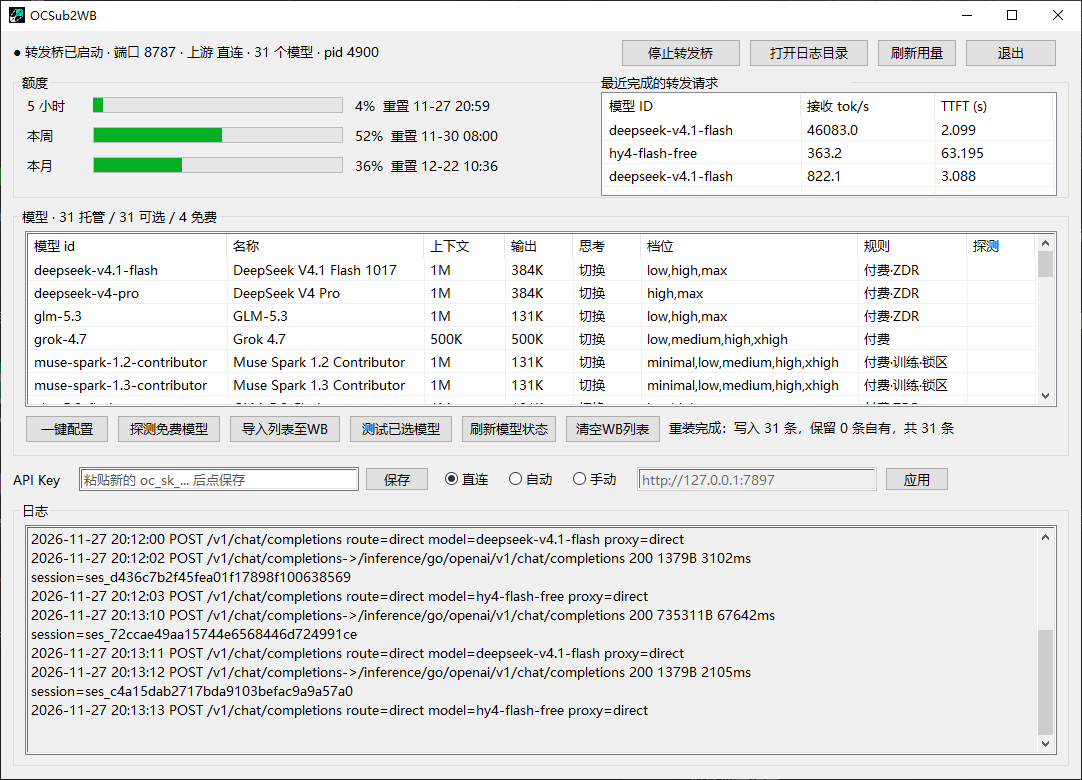
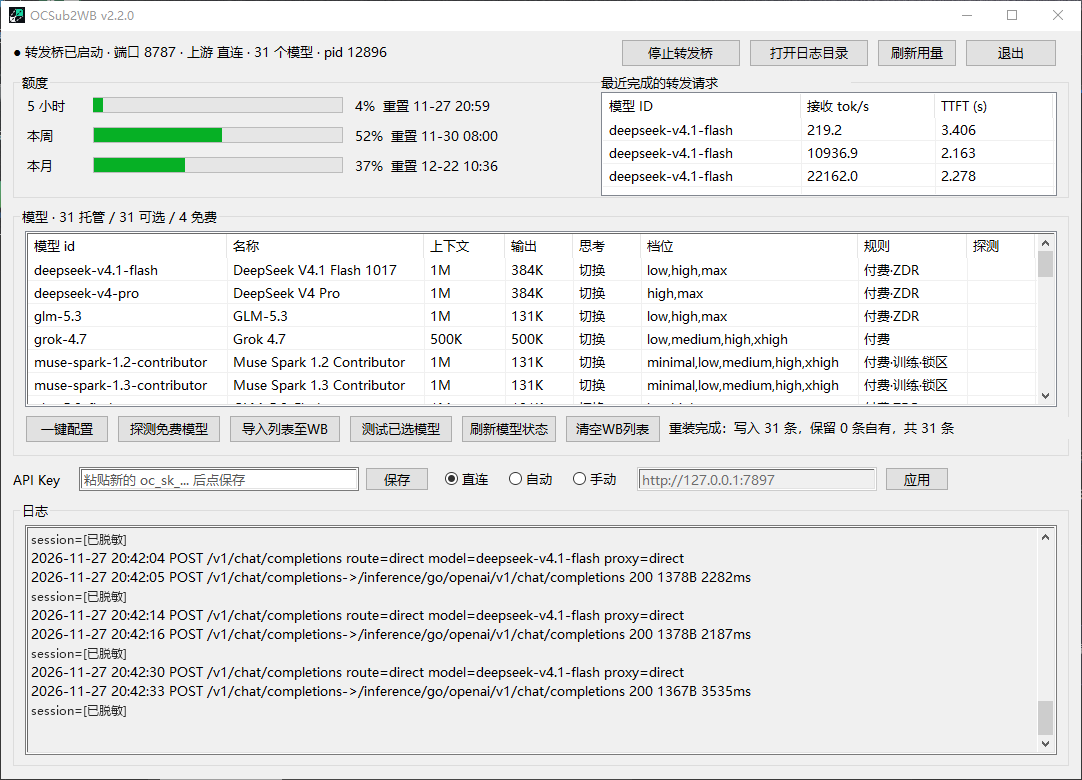
Align v2.2.0 release documentation and redact screenshot session IDs

diff --git a/README.md b/README.md
@@ -2,16 +2,26 @@
   <img src="./assets/icon.png" width="80" height="80" alt="">
   <h1>OCSub2WB</h1>
   <p>在 Windows 上，将 WorkBuddy 的自定义模型接入自己的 OpenCode Go 订阅。</p>
-  <p><a href="https://github.com/869Nitro/OCSub2WB/releases/latest"><strong>下载 Windows x64 便携包</strong></a> · <a href="#快速开始">快速开始</a> · <a href="https://github.com/869Nitro/OCSub2WB/blob/main/docs/usage.md">使用手册</a></p>
+  <p><a href="https://github.com/869Nitro/OCSub2WB/releases/tag/v2.2.0"><strong>下载 Windows x64 便携包</strong></a> · <a href="#快速开始">快速开始</a> · <a href="https://github.com/869Nitro/OCSub2WB/blob/v2.2.0/docs/usage.md">使用手册</a></p>
 </div>
+
+## OCSub2WB 解决了什么问题？
+
+OCSub2WB 是一个 Windows 本机转发桥。WorkBuddy 把自定义模型请求发到本机，OCSub2WB 再把请求发给 OpenCode Go。配置完成后，你可以继续在 WorkBuddy 里选模型、发消息和使用工具。
+
+OpenCode Go 的对话请求需要携带它能识别的稳定会话标识，供上游优化会话路由和复用提示词缓存。OCSub2WB 优先沿用请求里的 `x-opencode-session`。默认模式下，缺少这个头时，转发桥会尝试用请求里第一条有文本的用户消息生成标识。推导不到时使用预设值，并把标识作为 `x-opencode-session` 发给 OpenCode Go。 [OpenCode 会话标识说明](https://opencode.ai/docs/console/harnesses#sessions)
+
+面板还能批量导入和更新聊天模型，写入模型 ID、上下文与输出上限、工具调用及思考设置，并保留你自行添加的其他模型。你也可以查看订阅用量、探测免费模型、查看近期转发记录，以及为 OpenCode Go 单独设置上游 HTTP 代理。
 
 ## 快速开始
 
-准备 Windows x64、已安装并登录的 WorkBuddy，以及自己的 OpenCode Go API Key。面板可以使用 WorkBuddy 自带的 Python，项目已用 WorkBuddy 5.11.3 验证转发。[OpenCode Go 订阅与 Key](https://opencode.ai/docs/console/go/#how-it-works)
+准备 Windows x64、已安装并登录的 WorkBuddy，以及自己的 OpenCode Go API Key。面板可以使用 WorkBuddy 自带的 Python。[OpenCode Go 订阅与 Key](https://opencode.ai/docs/console/go/#how-it-works)
+
+**实测范围**　已用 WorkBuddy 5.11.3 和 Go 基础档验证转发。Go Plus 和 Go Teams 与基础档共用推理和用量接口，按公开接口判断可沿用相同的接入方式，这两个套餐尚未实测。使用 Go Teams 时，请填在团队工作区创建的成员个人 API Key。 [OpenCode Go 套餐与用量接口](https://opencode.ai/docs/console/go/#usage)
 
 1. 在 GitHub 发布页的 **Assets** 中下载 `OCSub2WB-v2.2.0-win64.zip`，完整解压到可写目录。[v2.2.0 发布页](https://github.com/869Nitro/OCSub2WB/releases/tag/v2.2.0)
 2. 打开 WorkBuddy，再运行 `OCSub2WB.exe`。让 EXE 和包内的两个 `.py` 文件保持在同一目录。
-3. 需要本机 HTTP 代理时，先设置上游代理并点 **应用**。把 OpenCode Go Key 粘贴到 **API Key** 输入框，点 **保存**，选择 **保存并启动转发桥，刷新模型列表**。只准备配置时可选 **仅保存 API Key**。[上游代理说明](https://github.com/869Nitro/OCSub2WB/blob/main/docs/usage.md#上游代理)
+3. 需要本机 HTTP 代理时，先设置上游代理并点 **应用**。把 OpenCode Go Key 粘贴到 **API Key** 输入框，点 **保存**，选择 **保存并启动转发桥，刷新模型列表**。只准备配置时可选 **仅保存 API Key**。[上游代理说明](https://github.com/869Nitro/OCSub2WB/blob/v2.2.0/docs/usage.md#上游代理)
 4. 点 **一键配置**，在 WorkBuddy 的 **设置 → 模型** 中选择导入的 OpenCode 模型，发一条消息。成功完成的模型请求会出现在面板右上方。
 
 面板为 WorkBuddy 写入的接口地址是 `http://127.0.0.1:8787/v1`。运行时保持转发桥开启。点击右上角 **×** 会收进系统托盘，点击 **退出** 并确认会同时停止转发桥。
@@ -19,27 +29,27 @@
 ## 运行界面
 
 <p align="center">
-  <img src="./assets/panel.png" width="980" alt="OCSub2WB 发布前实机截图，Hy4 Flash 对话期间的转发记录中同时出现 DeepSeek Flash">
+  <img src="./assets/panel.png" width="980" alt="OCSub2WB v2.2.0 实机截图，显示用量、最近完成的转发请求与模型列表">
 </p>
 
-这是 v2.2.0 发布前的实机截图。正式版标题栏会显示 **OCSub2WB v2.2.0**。额度和请求读数来自截图当时。
+这是 **OCSub2WB v2.2.0** 的实机截图。右上角显示最近的转发记录，下方模型列表显示上下文、输出上限和思考设置。日志中的会话标识已打码。
 
 ## 最近完成的转发请求
 
-面板保留最近 **3 条**成功完成的模型转发请求，最新完成的一条在最上方。同一模型多次请求会各占一行。WorkBuddy 的一轮对话可以发起多次模型调用，经过转发桥的后台调用也会出现在表中。
+面板保留最近 **3 条**成功完成的模型转发请求，按完成时间从新到旧排列。同一模型多次请求会各占一行。
 
 | 指标 | 看什么 |
 | --- | --- |
 | `TTFT (s)` | 从转发桥发起上游请求到收到首段非思考输出的秒数。正文和工具调用内容都算输出。 |
 | `接收 tok/s` | 按扣除已知思考 token 的输出用量，估算首段到末段之间的本机接收速率。上游集中发送时，短时间内收到多段输出，读数会偏高。 |
 
-非流式请求会显示模型 ID，两个流式指标显示 `—`。流式响应缺少必要的用量数据、可计数输出不足两个 token 或首末输出在同一次读取中到达时，`接收 tok/s` 显示 `—`。收到首段输出后仍可显示 TTFT。具体计算和空值条件见[指标说明](https://github.com/869Nitro/OCSub2WB/blob/main/docs/usage.md#最近请求指标)。
+非流式请求会显示模型 ID，两个流式指标显示 `—`。流式响应缺少必要的用量数据、可计数输出不足两个 token 或首末输出在同一次读取中到达时，`接收 tok/s` 显示 `—`。收到首段输出后仍可显示 TTFT。
 
-### 为什么用 Hy4 对话时会看到 DeepSeek？
+### 为什么一轮对话会出现多条记录？
 
-这是 **WorkBuddy 5.11.3 的工具结果审查行为**，出现在转发历史中属于正常记录。主对话用 `hy4-flash-free` 时，WorkBuddy 的工具结果审查仍可能从可用模型中另选 `deepseek-v4.1-flash`。如果选中的是已配置的自定义模型，审查请求就会使用该模型的端点，并在经过转发桥时出现在上表。截图中的两种模型 ID 对应不同的转发请求，主对话模型仍按对话中的选择调用。
+WorkBuddy 的「工具内容注入防护」会检查工具返回的内容。启用后，同一轮任务里除了主对话请求，还可能产生工具结果审查请求。OCSub2WB 按经过转发桥的模型请求逐条记录，因此表中的多条记录可能来自同一轮任务。 [WorkBuddy 安全中心说明](https://www.workbuddy.cn/docs/workbuddy/From-Beginner-to-Expert-Guide/Function-Description/Permission-Modes#ai-安全防护)
 
-审查回复通常很短，流式分块集中到达时，**接收 tok/s** 可能显示很高的数值。该数值按本机接收时间估算，只表示这次响应在转发桥上的到达速率。[WorkBuddy 安全中心说明](https://www.workbuddy.cn/docs/workbuddy/From-Beginner-to-Expert-Guide/Function-Description/Permission-Modes#ai-安全防护)
+工具结果审查的回复可能很短。首尾输出分块集中到达时，按这段接收间隔计算的 `接收 tok/s` 会偏高。这里显示的是转发桥收到输出的速率。
 
 ## 接下来怎么用
 
@@ -49,9 +59,27 @@
 | 确认免费模型是否可调用 | 点 **探测免费模型**，再用 **导入列表至WB** 导入付费聊天模型和本次探测通过的免费模型。 |
 | 单独检查一个模型 | 在模型列表选中它，再点 **测试已选模型**。 |
 | 调整窗口大小 | 拖动窗口边缘，或用标题栏的最大化和还原按钮。 |
-| 查找失败原因 | 点 **打开日志目录**，也可以先看[常见问题](https://github.com/869Nitro/OCSub2WB/blob/main/docs/usage.md#常见问题)。 |
+| 查找失败原因 | 点 **打开日志目录**，也可以先看[常见问题](https://github.com/869Nitro/OCSub2WB/blob/v2.2.0/docs/usage.md#常见问题)。 |
 
-升级、上游代理、备份恢复、配置文件和源码构建的详细步骤见[使用手册](https://github.com/869Nitro/OCSub2WB/blob/main/docs/usage.md)。
+升级、上游代理、备份恢复、配置文件和源码构建的详细步骤见[使用手册](https://github.com/869Nitro/OCSub2WB/blob/v2.2.0/docs/usage.md)。
+
+## 如果 WorkBuddy 官方支持会话标识，还需要 OCSub2WB 吗？
+
+如果将来 WorkBuddy 的自定义模型请求能提供 OpenCode Go 认可的稳定会话标识，而且你用自己的 API Key 和接口地址实测直连成功，只用一两个常用模型时，可以优先在 WorkBuddy 的自定义模型设置里直连 OpenCode Go。 [OpenCode 直连接入说明](https://opencode.ai/docs/console/harnesses)
+
+如果你经常导入或更换一批模型，想探测免费模型、集中看订阅用量和近期请求，或者需要给 OpenCode Go 单独设代理，仍可使用 OCSub2WB。当前的「一键配置」会把托管模型指向本机转发桥，近期请求表也只记录经过它的请求。
+
+## 数据处理与隐私
+
+- **请求发往哪里。** 默认转发桥监听本机回环地址。WorkBuddy 发到桥上的模型请求会转发给 OpenCode Go，内容可能包含对话消息和工具返回的数据。启用上游代理时，请求经你配置的代理连接 OpenCode Go。数据保留和训练规则以所选模型及工作区设置为准。 [OpenCode Go 隐私说明](https://opencode.ai/docs/console/go/#privacy)
+- **API Key 存在哪里。** Key 以**明文**保存在便携目录的 `.env` 和 WorkBuddy 的托管模型配置中。模型配置备份也可能包含 Key。
+- **日志记录什么。** 本机转发日志会记录请求路径、模型 ID、会话标识、状态码和耗时等排查信息。公开反馈问题时，请先从日志、配置和截图中移除 Key、会话标识等敏感信息。 [本地文件与数据](https://github.com/869Nitro/OCSub2WB/blob/v2.2.0/docs/usage.md#本地文件与数据)
+
+## 贡献者
+
+- [869Nitro](https://github.com/869Nitro) 发起并维护项目，负责需求设计、实机测试与发布。
+- **WorkBuddy**（AI 助手）完成了 v2.0.0 及更早版本的代码实现与发布。
+- **OpenAI Codex**（AI 编程助手）负责代码实现与自动化测试，协助排查问题和编写文档。
 
 ## 许可
 

diff --git a/THIRD-PARTY-NOTICES.md b/THIRD-PARTY-NOTICES.md
@@ -1,18 +1,18 @@
 # 第三方组件与许可
 
-OCSub2WB 项目的代码与文档采用 [MIT](./LICENSE)。本页列出 **v2.1.0 Windows x64 便携包**中由工具链静态链接的运行时代码，以及包内附带的许可文本。
+OCSub2WB 项目的代码与文档采用 [MIT](./LICENSE)。本页列出 **v2.2.0 Windows x64 便携包**中由工具链静态链接的运行时代码，以及包内附带的许可文本。
 
 ## Windows 便携包
 
-v2.1.0 的发布资产来自 Windows GitHub Actions 中通过测试的 MSYS2 MINGW64 构建。下表的版本是此构建实际安装的包版本。[v2.1.0 构建记录](https://github.com/869Nitro/OCSub2WB/actions/runs/45934018054)
+v2.2.0 的 Windows x64 便携包使用 WinLibs 工具链构建，采用 UCRT 和 POSIX 线程。[WinLibs 工具链发布记录](https://winlibs.com/)
 
 | 组件 | 构建包版本 | 源码与附带文本 |
 | --- | --- | --- |
-| GCC 的 `libgcc` 和 `libstdc++` | `16.2.0-7` | [GCC 16.2.0 源码](https://github.com/gcc-mirror/gcc/tree/releases/gcc-16.2.0) · [GPLv3](./licenses/GPL-3.0.txt) · [GCC Runtime Library Exception 3.1](./licenses/GCC-Runtime-Library-Exception-3.1.txt) |
-| MinGW-w64 CRT 和头文件运行时代码 | `14.0.0.r598.ge3d18511f-1` | [MinGW-w64 源码版本](https://github.com/mingw-w64/mingw-w64/commit/e3d18511f) · [COPYING](./licenses/MinGW-w64-COPYING.txt) · [头文件声明](./licenses/MinGW-w64-headers-notices.txt) · [CRT 声明](./licenses/MinGW-w64-runtime-notices.txt) |
-| MinGW-w64 的 winpthreads | `14.0.0.r598.ge3d18511f-1` | [MinGW-w64 源码版本](https://github.com/mingw-w64/mingw-w64/commit/e3d18511f) · [winpthreads 版权及许可](./licenses/winpthreads-COPYING.txt) |
+| GCC 的 `libgcc` 和 `libstdc++` | `16.2.0`（WinLibs r3） | [GCC 16.2.0 源码](https://github.com/gcc-mirror/gcc/tree/releases/gcc-16.2.0) · [GPLv3](./licenses/GPL-3.0.txt) · [GCC Runtime Library Exception 3.1](./licenses/GCC-Runtime-Library-Exception-3.1.txt) |
+| MinGW-w64 CRT 和头文件运行时代码 | `14.0.0` | [MinGW-w64 源码版本](https://github.com/mingw-w64/mingw-w64/tree/v14.0.0) · [COPYING](./licenses/MinGW-w64-COPYING.txt) · [头文件声明](./licenses/MinGW-w64-headers-notices.txt) · [CRT 声明](./licenses/MinGW-w64-runtime-notices.txt) |
+| MinGW-w64 的 winpthreads | `14.0.0` | [MinGW-w64 源码版本](https://github.com/mingw-w64/mingw-w64/tree/v14.0.0) · [winpthreads 版权及许可](./licenses/winpthreads-COPYING.txt) |
 
-便携包中的许可文件放在 `licenses/`。构建流程从实际使用的 MSYS2 工具链复制 MinGW-w64 相关原文。[构建与打包配置](https://github.com/869Nitro/OCSub2WB/blob/main/.github/workflows/build-release.yml)
+便携包中的许可文件放在 `licenses/`。源码构建步骤见[使用手册](https://github.com/869Nitro/OCSub2WB/blob/v2.2.0/docs/usage.md#命令行与构建)。
 
 ## 运行环境
 

diff --git a/docs/usage.md b/docs/usage.md
@@ -52,6 +52,8 @@ Get-FileHash -Algorithm SHA256 .\OCSub2WB-v2.2.0-win64.zip
 
 若上游给出了思考用量明细，转发桥据此扣除思考 token。已观察到思考但上游未给出可分开的用量时，速率显示 `—`。缺少用量、可计数输出不足两个 token 或首末输出在同一次读取中到达时也会显示 `—`，只要有可识别的流式输出，TTFT 仍可显示。非流式请求的两项流式指标都显示 `—`。[OpenCode 用量字段](https://opencode.ai/docs/console/api/inference/#cost)
 
+WorkBuddy 的「工具内容注入防护」会检查工具返回的内容。启用后，同一轮任务里除了主对话请求，还可能产生工具结果审查请求。OCSub2WB 按经过转发桥的模型请求逐条记录，因此表中的多条记录可能来自同一轮任务。 [WorkBuddy 安全中心说明](https://www.workbuddy.cn/docs/workbuddy/From-Beginner-to-Expert-Guide/Function-Description/Permission-Modes#ai-安全防护)
+
 ## 上游代理
 
 上游代理设置控制转发桥**访问 OpenCode Go**时的网络路径。填写代理程序实际监听的 **HTTP** 地址，例如 `http://127.0.0.1:7897`，选择模式后点 **应用**。
@@ -86,7 +88,7 @@ Get-FileHash -Algorithm SHA256 .\OCSub2WB-v2.2.0-win64.zip
 | 便携目录的 `cache/backup/` | 写入模型配置前的备份。 |
 | 便携目录的 `cache/api.token`、`cache/proxy.pid` | 本机面板控制令牌以及转发桥进程信息。 |
 
-Key 以明文保存在 `.env` 和写入 WorkBuddy 的托管模型条目中。模型备份也可能包含 Key。分享日志或配置前，先检查其中的 Key、控制令牌和本机信息。
+Key 以**明文**保存在 `.env` 和 WorkBuddy 的托管模型配置中，备份也可能包含 Key。公开反馈问题时，请先从日志、配置和截图中移除 Key、控制令牌、会话标识和其他本机信息。
 
 转发桥监听本机回环地址。模型请求和认证信息由转发桥发往 OpenCode Go，并在启用上游代理时走选定的路径。上游的数据处理规则见[OpenCode Go 隐私说明](https://opencode.ai/docs/console/go/#privacy)。
 
